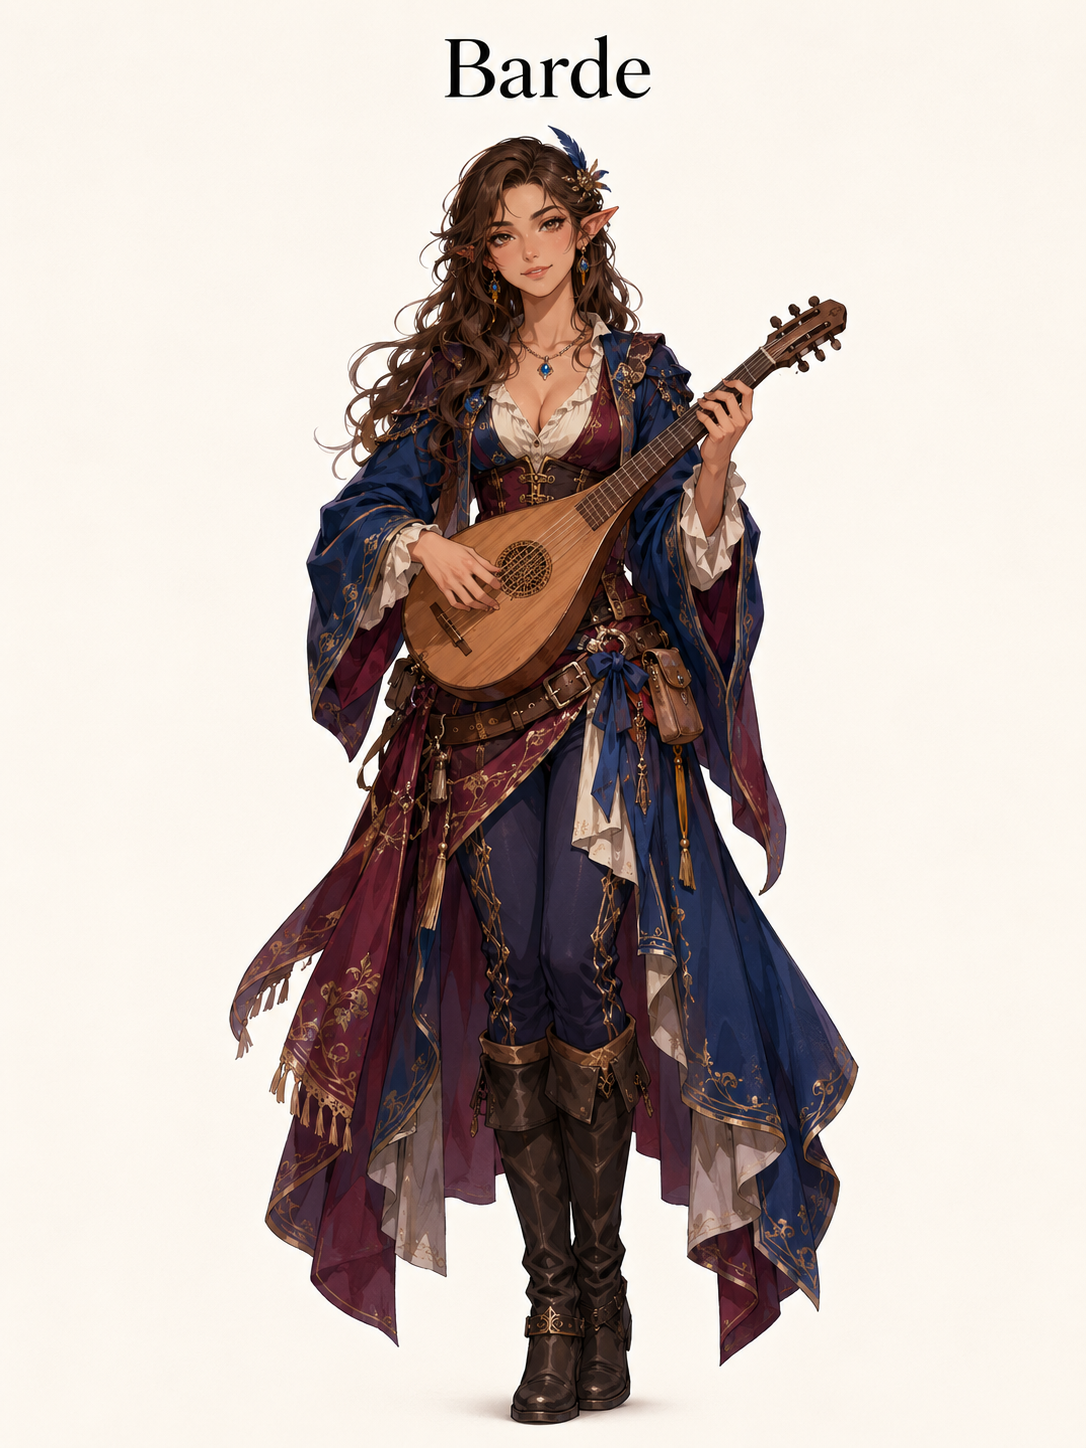
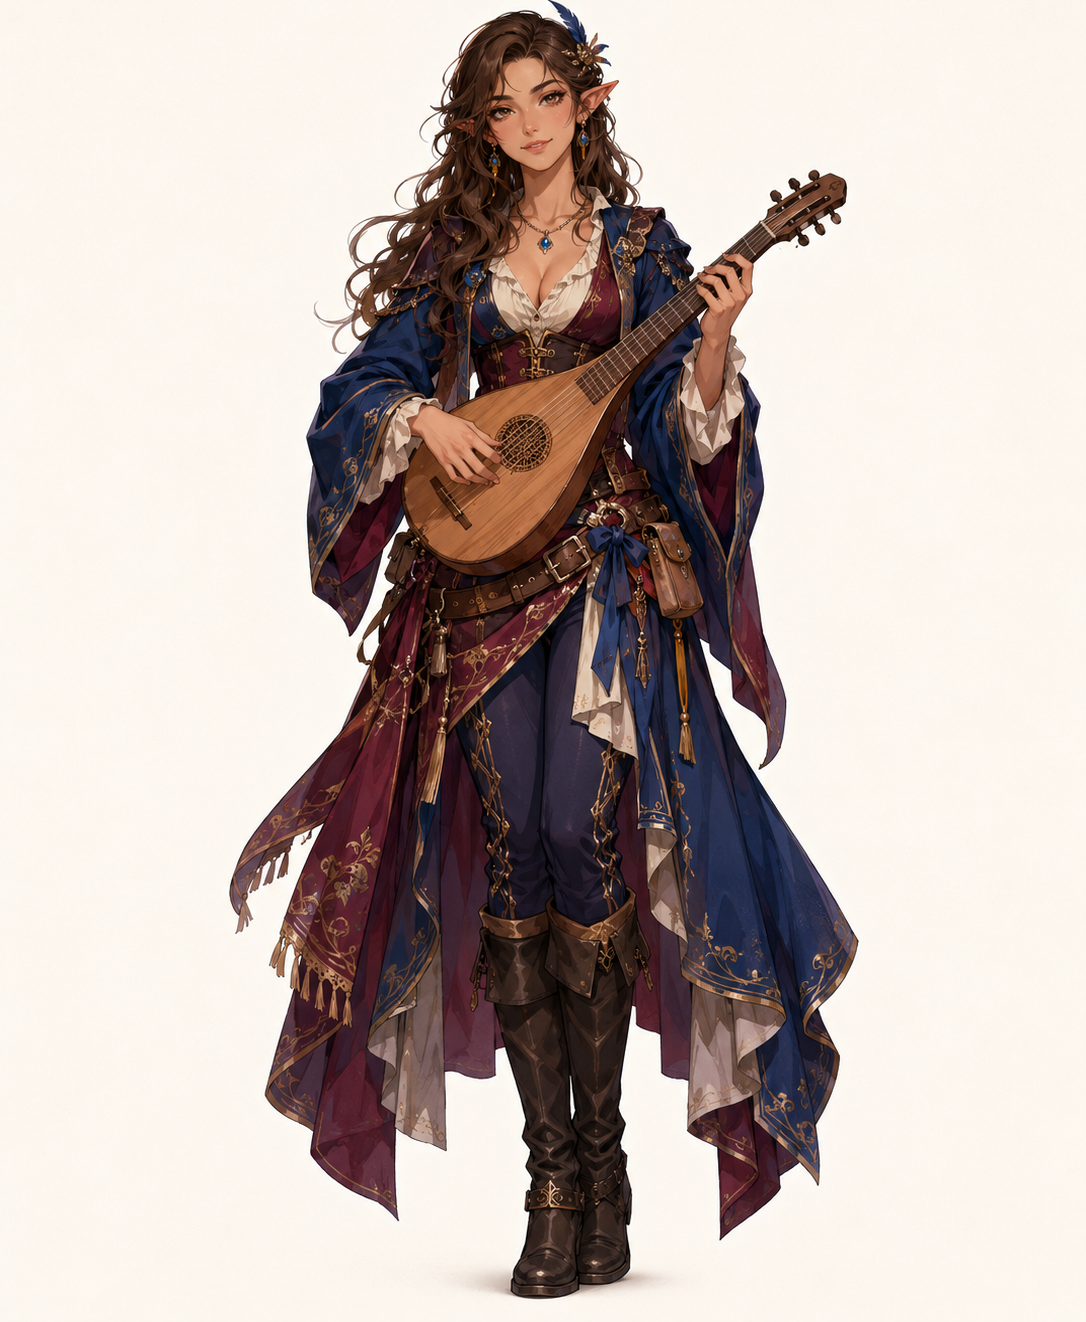
feat(creation): portraits de classe genres + reordonne genre->race->classe
- Recadre les 19 nouveaux portraits de classe homme/femme (suppression
  du titre de classe incruste dans l'image, redondant avec le <h3> deja
  affiche sous la carte) ; corrige la faute de frappe
  duide-femme.png -> druide-femme.png
- portraitClasse() charge desormais assets/portraits/<classe>-<genre>.png
  avec repli automatique sur l'ancienne planche unisexe
  assets/portraits/classes/<classe>.png si le fichier genre manque
  (ex. necromancien-femme.png pas encore fourni)
- Formulaire de creation reordonne : Genre -> Race -> Classe (au lieu de
  Classe -> Genre -> Race), pour que les portraits de race ET de classe
  refletent le genre choisi des le depart
  - choisirGenre() re-rend aussi la grille de classes
- .classe-carte .portrait-fig : max-height + object-fit:contain pour des
  cartes de hauteur uniforme malgre les portraits d'aspect ratio variable

Claude-Session: https://claude.ai/code/session_01G8kykLuGZGgm9Ae8Q3MoVG

Changed region(s): [[0.2127, 0.0, 0.7901, 0.9924]]

diff --git a/index.html b/index.html
@@ -4,7 +4,7 @@
   <meta charset="UTF-8" />
   <meta name="viewport" content="width=device-width, initial-scale=1.0" />
   <title>Chroniques Oubliées Fantasy — Compagnon de jeu</title>
-  <link rel="stylesheet" href="css/style.css?v=24" />
+  <link rel="stylesheet" href="css/style.css?v=25" />
 </head>
 <body>
   <header>
@@ -78,7 +78,7 @@
     <!-- CREATION -->
     <section class="panneau" id="panneau-creation">
       <div class="carte">
-        <h2 class="titre-bandeau">1 · Identité & classe</h2>
+        <h2 class="titre-bandeau">1 · Identité, genre, race & classe</h2>
         <div class="grille grille-2">
           <div>
             <label for="champ-nom">Nom du personnage</label>
@@ -89,8 +89,6 @@
             <input id="champ-niveau" type="number" min="1" max="20" value="1" />
           </div>
         </div>
-        <label style="margin-top:14px;">Classe</label>
-        <div class="grille-classes" id="grille-classes"></div>
         <label style="margin-top:14px;">Genre</label>
         <div class="choix-genre" id="choix-genre">
           <button type="button" class="btn-genre" data-genre="homme">Homme</button>
@@ -98,6 +96,8 @@
         </div>
         <label style="margin-top:14px;">Race</label>
         <div class="grille-classes" id="grille-races"></div>
+        <label style="margin-top:14px;">Classe</label>
+        <div class="grille-classes" id="grille-classes"></div>
       </div>
 
       <div class="carte" id="bloc-caracs" style="display:none;">
@@ -428,6 +428,6 @@
   <script src="js/sync.js?v=2"></script>
   <script src="js/carte.js?v=38"></script>
   <script src="js/loot.js?v=3"></script>
-  <script src="js/app.js?v=28"></script>
+  <script src="js/app.js?v=29"></script>
 </body>
 </html>

diff --git a/js/app.js b/js/app.js
@@ -256,8 +256,11 @@ const App = (() => {
   }
 
   /* ---------- Portraits : images individuelles dans assets/portraits/ ---------- */
+  // Portrait de classe genre (assets/portraits/<classe>-<genre>.png) ; repli sur
+  // l'ancienne planche unisexe (assets/portraits/classes/<classe>.png) si le
+  // fichier genre manque (ex. necromancien-femme.png pas encore fourni).
   function portraitClasse(cle) {
-    return `<img class="portrait-fig" src="assets/portraits/classes/${cle}.png" alt="" loading="lazy" onerror="this.style.display='none'" />`;
+    return `<img class="portrait-fig" src="assets/portraits/${cle}-${creation.genre}.png" alt="" loading="lazy" onerror="this.onerror=null;this.src='assets/portraits/classes/${cle}.png';" />`;
   }
   function portraitRace(cle) {
     return `<img class="portrait-fig" src="assets/portraits/races/${cle}-${creation.genre}.png" alt="" loading="lazy" onerror="this.style.display='none'" />`;
@@ -274,6 +277,7 @@ const App = (() => {
       creation.genre = g;
       rendreChoixGenre();
       rendreGrilleRaces();
+      rendreGrilleClasses();
       majApercuPortrait();
     }
   }

diff --git a/css/style.css b/css/style.css
@@ -255,7 +255,7 @@ textarea { resize: vertical; min-height: 70px; }
 .classe-carte:hover { border-color: var(--violet-accent); transform: translateY(-2px); box-shadow: 0 6px 16px var(--ombre); }
 .classe-carte.choisie { border-color: var(--or); background: #fff8e8; }
 .classe-carte .embleme-wrap { text-align: center; margin-bottom: 8px; }
-.classe-carte .portrait-fig { display: block; margin: 0 auto 8px; width: 100%; max-width: 150px; height: auto; border-radius: 8px; }
+.classe-carte .portrait-fig { display: block; margin: 0 auto 8px; width: 100%; max-width: 150px; max-height: 190px; height: auto; object-fit: contain; border-radius: 8px; }
 .embleme { display: block; }
 .classe-carte h3 { margin: 0 0 6px; color: var(--violet); text-align: center; }
 .classe-carte .dv { font-size: 0.8rem; color: var(--violet-accent); font-weight: 600; }
